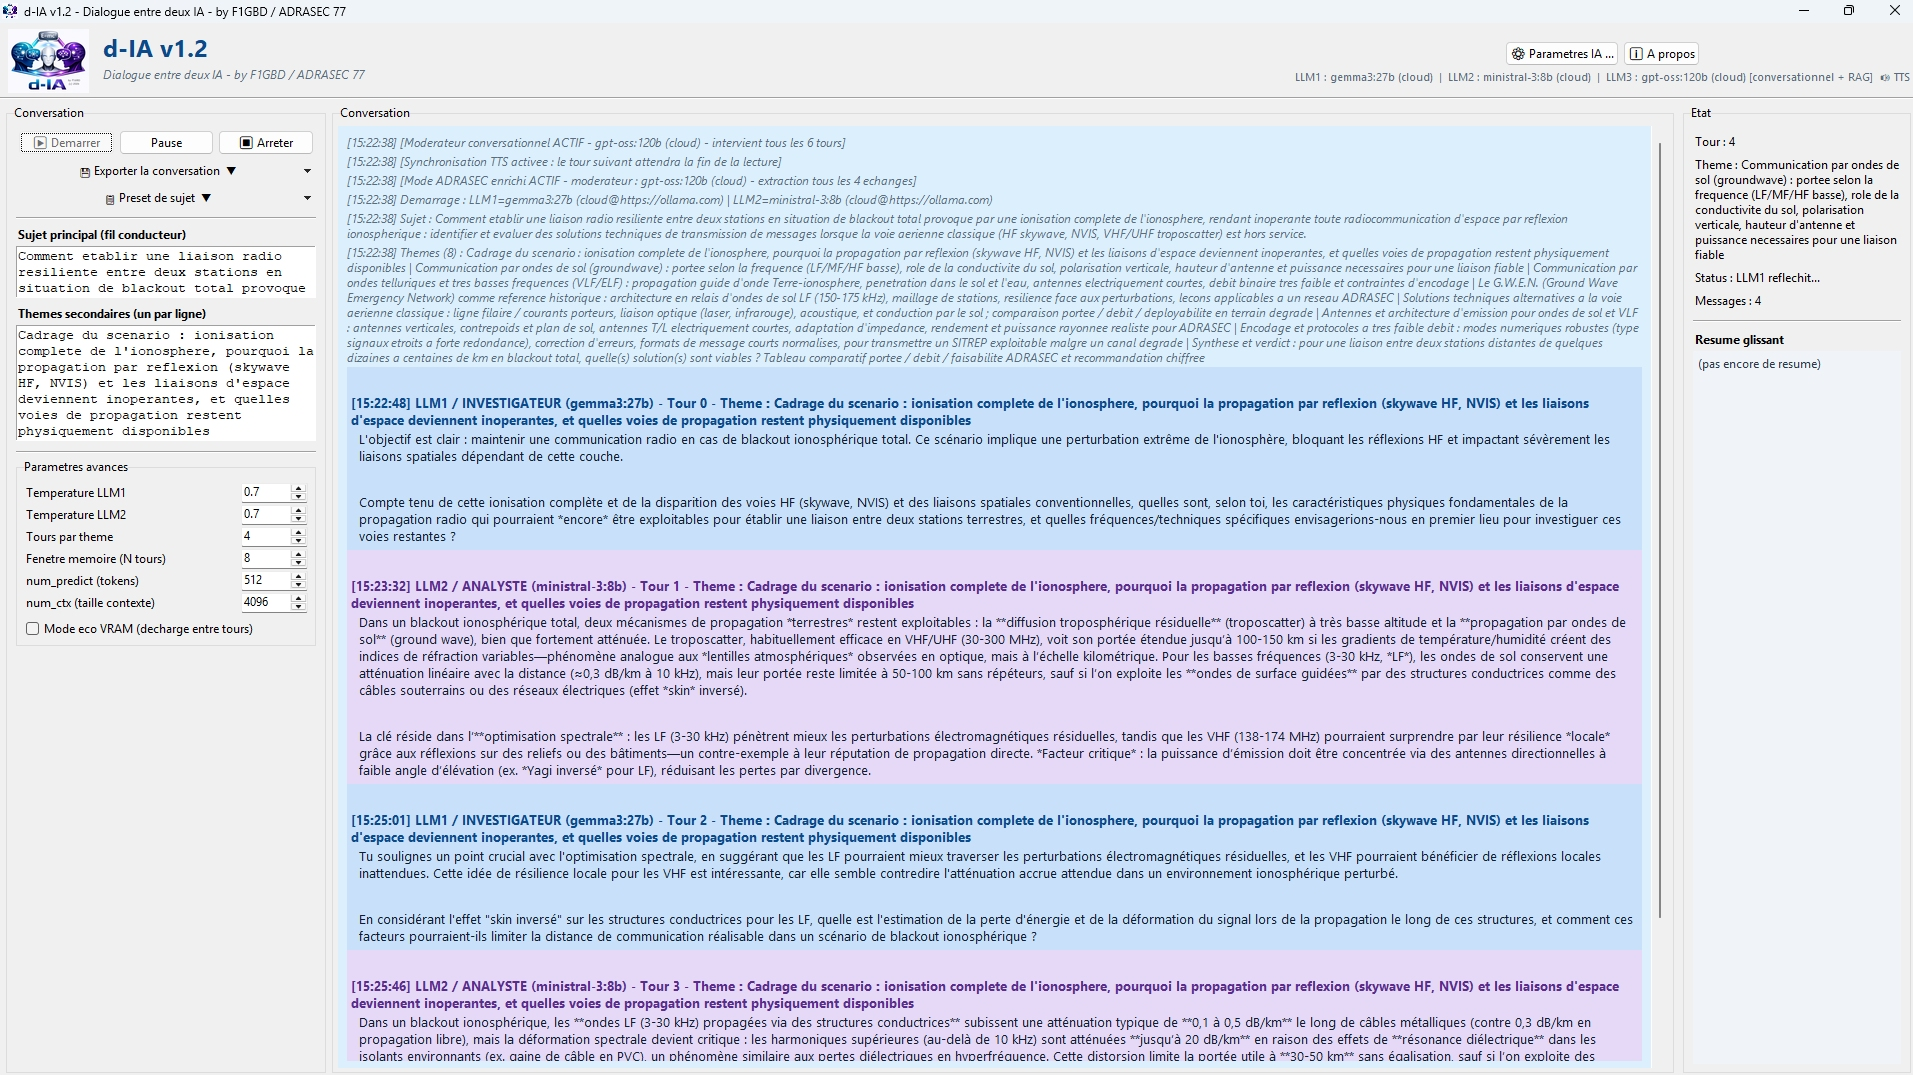
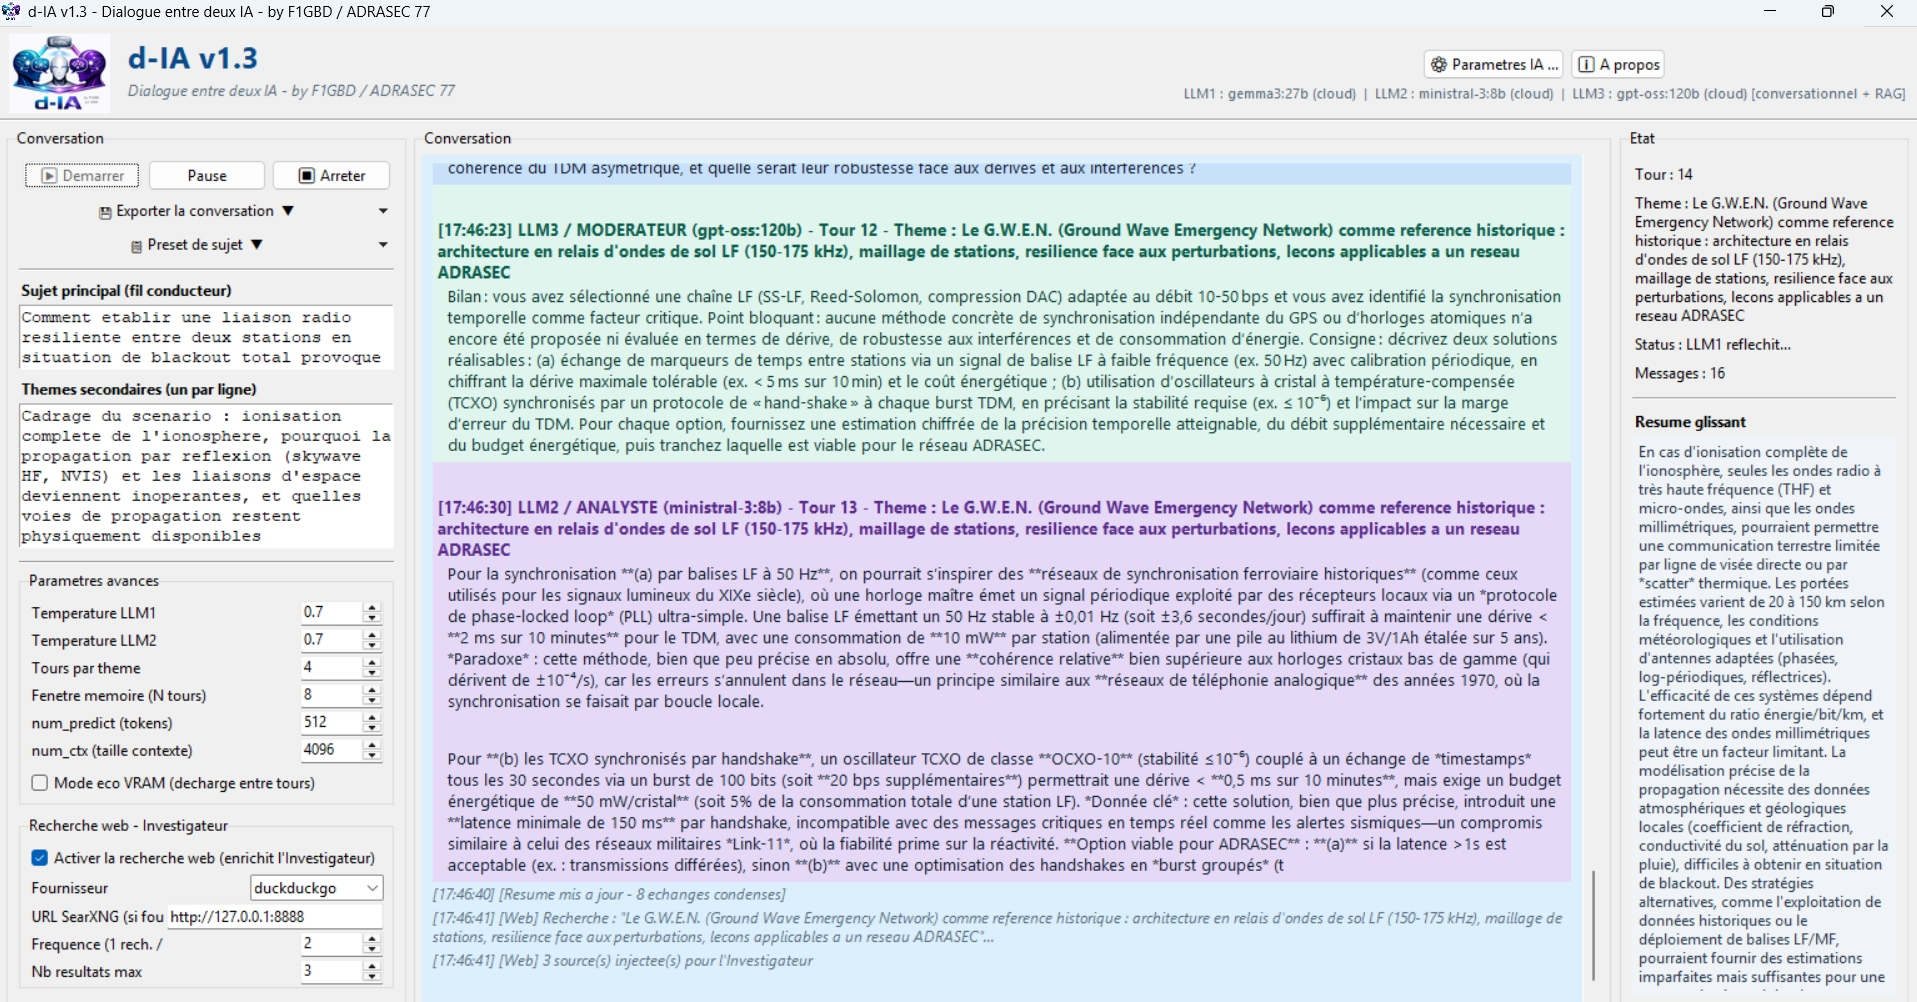
d-IA v1.3 by F1GBD

diff --git a/dia/README.md b/dia/README.md
@@ -4,17 +4,18 @@
 
 ### Dialogue autonome entre deux IA, arbitré par un troisième — un outil d'aide à la recherche par IA
 
-*Conversation scientifique guidée — Investigateur & Analyste — **Modérateur conversationnel qui fait converger le dialogue vers une solution (v1.2)** — Presets de sujet importables/exportables (v1.2) — Mode ADRASEC enrichi (modérateur RAG) — Ollama local & cloud — Mémoire glissante — Détection de dérive linguistique — Synthèse vocale SAPI5 deux voix — Synchronisation dialogue/voix — Export JSON / Markdown / RTF — Thèmes secondaires guidés — Configuration persistante*
+*Conversation scientifique guidée — Investigateur & Analyste — **Enrichissement par le web de l'Investigateur — DuckDuckGo / SearXNG (v1.3)** — **Auto-export des fiches vers IAbrain (v1.3)** — **Modérateur conversationnel qui fait converger le dialogue vers une solution (v1.2)** — Presets de sujet importables/exportables (v1.2) — Mode ADRASEC enrichi (modérateur RAG) — Ollama local & cloud — Mémoire glissante — Détection de dérive linguistique — Synthèse vocale SAPI5 deux voix — Synchronisation dialogue/voix — Export JSON / Markdown / RTF — Thèmes secondaires guidés — Configuration persistante*
 
-[![Version](https://img.shields.io/badge/version-dia--v1.2.0-blue)](https://github.com/f1gbd/F1GBD/releases/tag/dia-v1.2.0)
+[![Version](https://img.shields.io/badge/version-dia--v1.3.0-blue)](https://github.com/f1gbd/F1GBD/releases/tag/dia-v1.3.0)
 [![Plateforme](https://img.shields.io/badge/plateforme-Windows%2010%2F11-lightgrey.svg)]()
 [![Licence](https://img.shields.io/badge/usage-ADRASEC%2FFNRASEC-green.svg)]()
 [![Local / Cloud](https://img.shields.io/badge/Ollama-local%20%2F%20cloud-brightgreen.svg)]()
 [![Accessibilité](https://img.shields.io/badge/accessibilit%C3%A9-voix%20SAPI5-purple.svg)]()
 [![Modérateur](https://img.shields.io/badge/mode-mod%C3%A9rateur%20conversationnel-teal.svg)]()
 [![RAG](https://img.shields.io/badge/mode-ADRASEC%20enrichi-orange.svg)]()
+[![Web](https://img.shields.io/badge/v1.3-enrichissement%20web-blue.svg)]()
 
-### 📥 [**Télécharger la dernière version (v1.2.0)**](https://github.com/f1gbd/F1GBD/releases/download/dia-v1.2.0/d-IA.7z)
+### 📥 [**Télécharger la dernière version (v1.3.0)**](https://github.com/f1gbd/F1GBD/releases/download/dia-v1.3.0/d-IA.7z)
 
 </div>
 
@@ -36,6 +37,43 @@ Tout tourne **localement** par défaut (modèles Ollama auto-hébergés), avec u
 
 ---
 
+## 🆕 Nouveautés v1.3 — Enrichissement par le web & auto-export IAbrain
+
+La **v1.3** ferme la boucle de l'aide à la recherche : l'Investigateur peut désormais **aller chercher des sources réelles sur le web** pour étayer le dialogue, et les fiches produites peuvent être **poussées automatiquement vers IAbrain** au fil de l'eau.
+
+### 🔎 Enrichissement par le web (l'Investigateur va chercher des sources)
+
+Avant son tour, le LLM1 (Investigateur) peut interroger le web et recevoir 2-3 extraits qu'il **synthétise en français, avec esprit critique**, pour nourrir sa relance. Deux fournisseurs interchangeables :
+
+- **DuckDuckGo** *(par défaut, aucune installation)* — `urllib` seul, aucune dépendance, aucune clé API, rien à héberger.
+- **SearXNG** *(souverain)* — interroge une instance auto-hébergée via son API JSON, pour garder la maîtrise totale des requêtes (idéal pour des sujets d'exercice sensibles).
+
+La recherche est **throttlée** (1 requête tous les N tours d'Investigateur), **dédupliquée par thème** (on ne relance que lorsque le planificateur change de thème), et surtout à **repli hors-ligne** : si elle échoue ou est désactivée, le dialogue se déroule exactement comme avant. d-IA reste donc utilisable en scénario blackout — la recherche est simplement inerte.
+
+```
+[Analyste répond] → l'Investigateur interroge le web (thème actif)
+        ↓ 2-3 extraits sourcés (titre + lien + résumé)
+[Investigateur] synthétise en français, cite, reste critique → relance argumentée
+```
+
+> 💡 La recherche web suppose une connexion Internet : c'est un outil de **préparation / formation**, pas de terrain en blackout.
+
+### ♻ Auto-export des fiches vers IAbrain (au fil de l'eau)
+
+Quand le modérateur RAG extrait une fiche, d-IA peut l'**écrire immédiatement en Markdown** dans le dossier source d'IAbrain, prête à être indexée — sans passer par un export manuel. d-IA détecte automatiquement l'emplacement d'IAbrain (`rag_perso_sources`).
+
+**Garde-fou opérationnel** : les fiches sont déposées dans une **zone de staging `_a_valider/`**, *jamais* directement dans la base de confiance. Une **relecture humaine** valide avant exploitation en exercice. C'est la différence entre un outil de veille pratique et une base sur laquelle un opérateur s'appuierait en intervention.
+
+```
+d-IA (dialogue enrichi par le web) → modérateur extrait une fiche sourcée
+        ↓ auto-export .md
+IAbrain/rag_perso_sources/_a_valider/<DOMAINE>/<fiche>.md
+        ↓ relecture + validation humaine
+IAbrain /index ou /reindex → interrogeable en langage naturel
+```
+
+---
+
 ## ⭐ Fonctionnalités principales
 
 | Icône | Fonctionnalité | Description |
@@ -44,6 +82,8 @@ Tout tourne **localement** par défaut (modèles Ollama auto-hébergés), avec u
 | 🆕 | **Modérateur conversationnel (v1.2)** | Un 3ᵉ LLM **intervient directement dans le dialogue** tous les K tours : bilan de ce qui est acquis, point bloquant restant, et **consigne de convergence précise** (chiffre à établir, hypothèse à trancher, verdict à formuler). Son intervention est réinjectée dans le contexte des deux IA, ce qui crée la rétroaction qui **fait aboutir la recherche**. |
 | 📋 | **Presets de sujet (v1.2)** | Boutons **Importer / Exporter un preset** : un sujet de recherche complet (sujet principal + thèmes secondaires + objectif de convergence + réglages) se charge en un clic, se sauvegarde au format `.diapreset.json` et **se partage** entre opérateurs. Le format texte est aussi accepté à l'import. |
 | 🗂 | **Modérateur RAG (mode ADRASEC enrichi)** | **v1.1** : un LLM observe le dialogue en arrière-plan et extrait des fiches structurées (JSON) tous les N échanges. Capitalisation automatique dans `rag_adrasec.json`, réutilisable pour exercices, RETEX, ou indexation dans IAbrain. **Compatible avec le modérateur conversationnel** : l'un parle, l'autre fiche. |
+| 🔎 | **Enrichissement par le web (v1.3)** | L'**Investigateur** interroge le web avant son tour et reçoit 2-3 extraits qu'il synthétise en français avec esprit critique. Deux fournisseurs : **DuckDuckGo** (sans installation) ou **SearXNG** (auto-hébergé, souverain). Recherche throttlée, dédupliquée par thème, et à **repli hors-ligne** (inerte si pas de réseau ou désactivée). |
+| ♻ | **Auto-export vers IAbrain (v1.3)** | Les fiches du modérateur RAG sont écrites en Markdown directement dans le dossier source d'IAbrain, **au fil de l'eau**, dans une zone de **staging `_a_valider/`** (jamais dans la base de confiance). Relecture humaine puis `/index`. Détection automatique de l'emplacement d'IAbrain. |
 | 🌐 | **Ollama local OU cloud, par LLM** | Chaque IA (y compris le modérateur) peut être configurée indépendamment : LLM1 sur un serveur local LAN, LLM2 sur Ollama Cloud, modérateur ailleurs encore. Mixage possible : petit modèle local pose les questions, gros modèle cloud arbitre. |
 | 📚 | **Thèmes secondaires guidés** | L'utilisateur définit un sujet principal (fil rouge) + une liste de thèmes secondaires. Le moteur fait défiler les thèmes tous les N tours, garantissant une progression de la conversation sans dérive thématique — et, avec le modérateur, une trajectoire vers la conclusion. |
 | 🧠 | **Mémoire à fenêtre glissante** | Les N derniers échanges sont passés intégralement aux LLM ; les plus anciens sont condensés en un **résumé glissant** régénéré périodiquement. Évite l'explosion du contexte au-delà de 20-30 tours. |
@@ -195,11 +235,12 @@ Les fiches générées par d-IA sont **directement consommables par le système 
 ### Le scénario complet
 
 ```
-1. d-IA génère des fiches lors d'un dialogue (arbitré par le modérateur)
+1. d-IA génère des fiches lors d'un dialogue (arbitré par le modérateur,
+   et désormais enrichi par des sources web — v1.3)
         ↓
-2. Export Markdown au format IAbrain-friendly
+2. Export Markdown (manuel) OU auto-export au fil de l'eau vers le staging IAbrain (v1.3)
         ↓
-3. /index dans IAbrain
+3. Relecture / validation humaine (zone _a_valider/), puis /index dans IAbrain
         ↓
 4. Vous interrogez IAbrain en langage naturel sur vos sujets ADRASEC
 ```
@@ -231,9 +272,17 @@ Les fiches générées par d-IA sont **directement consommables par le système 
 
 Ouvrir `rag_adrasec.json` avec un éditeur (Notepad++, VS Code) pour corriger, supprimer, enrichir ou fusionner des fiches. Le format JSON est documenté en commentaire en début de fichier et reste lisible à l'œil.
 
-#### Méthode 3 — Sync automatisée (à venir)
+#### Méthode 3 — Auto-export au fil de l'eau (v1.3, recommandée pour capitaliser vite)
 
-Une version future de d-IA proposera **l'indexation directe** dans IAbrain via API à la fin de chaque dialogue.
+Dans **Paramètres IA → Mode ADRASEC → Auto-export vers IAbrain**, cochez **« Pousser les fiches vers IAbrain au fil de l'eau »**. À chaque fiche extraite par le modérateur RAG, d-IA écrit aussitôt le `.md` correspondant dans :
+
+```
+<IAbrain>/rag_perso_sources/_a_valider/<DOMAINE>/<fiche>.md
+```
+
+d-IA détecte automatiquement l'emplacement d'IAbrain (à défaut, un dossier `IAbrain_rag_perso/_a_valider/` est créé à côté de `d-IA.exe`). Un `_INDEX.md` est régénéré par domaine.
+
+> ⚠ **Zone de staging `_a_valider/` volontaire** : les fiches sont auto-générées (et parfois issues du web). Elles passent par un **sas de relecture humaine** avant d'entrer dans la base de confiance d'IAbrain. Après validation, déplacez-les et lancez `/index` (ou `/reindex`). Ne jamais exposer une fiche non relue en exercice opérationnel.
 
 ### Capitalisation départementale
 
@@ -248,6 +297,7 @@ Le fichier `rag_adrasec.json` est **portable** (un seul fichier JSON), **version
 - **Windows 10 ou 11** (le TTS SAPI5 et le binaire pyttsx3 sont Windows-only)
 - **Ollama** installé localement : <https://ollama.com/download>
   - ou compte **Ollama Cloud** avec clé API : <https://ollama.com/settings/keys>
+- *(v1.3, optionnel)* **Recherche web** pour enrichir l'Investigateur : **DuckDuckGo** ne demande **aucune installation** (juste une connexion Internet) ; **SearXNG** nécessite une instance auto-hébergée avec le format JSON activé.
 - **Au moins deux modèles** téléchargés via Ollama (trois si vous utilisez le modérateur conversationnel et/ou RAG) :
 
   ```powershell
@@ -297,6 +347,8 @@ Sans GPU, ça marche aussi mais chaque tour prend 30-60 s au lieu de 5-10 s.
    - **Onglet Mode ADRASEC** :
      - *(v1.2)* Section **Modérateur conversationnel** : cocher « Activer », choisir la fréquence K (6 tours par défaut), la température (0.4), et éventuellement un objectif de convergence
      - *(v1.1)* Section **Mode ADRASEC enrichi** : cocher pour activer l'extraction RAG (facultatif, cumulable)
+     - *(v1.3)* Section **Auto-export vers IAbrain** : cocher pour pousser les fiches vers le staging IAbrain `_a_valider/` au fil de l'eau
+   - **Colonne de gauche → Recherche web - Investigateur** *(v1.3, optionnel)* : cocher « Activer la recherche web », choisir le fournisseur (`duckduckgo` sans installation, ou `searxng`), la fréquence et le nombre de résultats
    - **Onglet Synthèse vocale** : *(optionnel)* cocher « Activer la lecture vocale », choisir une voix pour chaque IA, tester
 2. **Fermer** la fenêtre Paramètres
 3. **Saisir un sujet principal** + une liste de **thèmes secondaires** (un par ligne) — ou **importer un preset**
@@ -354,6 +406,9 @@ Oui, c'est l'objet de la v1.2. Le modérateur impose une trajectoire et exige un
 **Comment réutiliser un sujet de recherche d'une fois sur l'autre ?**
 Utilisez les **presets** (v1.2). « Exporter le sujet courant » produit un `.diapreset.json` que vous rechargez via « Importer un preset ». Le fichier transporte le sujet, les thèmes, l'objectif de convergence et les réglages.
 
+**La recherche web ne renvoie aucune source (« Aucune source exploitable »).**
+Avec **DuckDuckGo** : vérifiez la connexion Internet ; en cas d'usage soutenu DDG peut limiter le débit (on retombe alors sur le repli hors-ligne, sans gravité). Avec **SearXNG** : le format JSON doit être activé dans `settings.yml` (`search: formats: [html, json]`) et le `limiter` désactivé, sinon l'instance renvoie 403. Dans tous les cas, le dialogue se poursuit normalement sans source.
+
 **Erreur Ollama « failed to allocate compute pp buffers ».**
 Votre VRAM est saturée. Solutions : (1) cocher « Mode éco VRAM » ; (2) réduire `num_ctx` à 2048 ou 4096 ; (3) utiliser des modèles plus petits ; (4) basculer un des LLM sur Ollama Cloud ; (5) basculer le modérateur sur Ollama Cloud.
 
@@ -364,7 +419,7 @@ C'est Qwen 2.5 qui dérive vers sa langue dominante. d-IA détecte et régénèr
 Il faut **redémarrer d-IA** après l'activation (la liste est lue au lancement). Si elles n'apparaissent toujours pas, vérifier dans regedit que `HKLM\SOFTWARE\Microsoft\Speech\Voices\Tokens` contient bien les nouvelles voix.
 
 **Les fiches générées par d-IA peuvent-elles être réimportées dans IAbrain ?**
-Oui, c'est le cas d'usage principal du mode RAG. Voir la section [Intégration avec IAbrain](#-intégration-avec-iabrain). La méthode actuelle est manuelle (export JSON → Markdown → `/index`). Une sync automatisée est prévue.
+Oui, c'est le cas d'usage principal du mode RAG. Voir la section [Intégration avec IAbrain](#-intégration-avec-iabrain). **Depuis la v1.3**, d-IA peut **pousser les fiches automatiquement** vers le dossier source d'IAbrain (zone de staging `_a_valider/`) au fil de l'eau ; il reste l'export manuel et l'édition du JSON pour les cas particuliers.
 
 ---
 
@@ -386,6 +441,15 @@ Toute contribution, retour d'expérience ou proposition d'amélioration est bien
 ---
 
 ## 📜 Historique des versions
+
+### v1.3 — Juin 2026 — Enrichissement par le web & auto-export IAbrain
+
+- ➕ **Enrichissement par le web de l'Investigateur** : le LLM1 interroge le web avant son tour et synthétise 2-3 sources en français
+- ➕ Deux fournisseurs interchangeables : **DuckDuckGo** (sans installation, `urllib` seul) et **SearXNG** (auto-hébergé, souverain)
+- ➕ Recherche **throttlée** (1 / N tours), **dédupliquée par thème**, à **repli hors-ligne** (inerte sans réseau ou désactivée)
+- ➕ **Auto-export des fiches vers IAbrain** au fil de l'eau, dans une zone de **staging `_a_valider/`** (relecture humaine avant exploitation)
+- ➕ Détection automatique de l'emplacement d'IAbrain ; régénération de l'`_INDEX.md` par domaine
+- ➕ Persistance des nouveaux paramètres dans `d-ia_setup.json` et transport dans les presets `.diapreset.json`
 
 ### v1.2 — Mai 2026 — Modérateur conversationnel & presets : l'aide à la recherche dirigée
 
@@ -433,12 +497,12 @@ Toute contribution, retour d'expérience ou proposition d'amélioration est bien
 **Jean-Louis (F1GBD)**
 *ADRASEC 77 — FNRASEC*
 
-**Version 1.2 — 2026**
+**Version 1.3 — 2026**
 
 ---
 
 *Pour toute question, contactez votre référent ADRASEC départemental.*
 
-🤖 **d-IA v1.2** — *Deux IA cherchent, un troisième arbitre et fait converger. Vos sujets de recherche aboutissent à une solution.*
+🤖 **d-IA v1.3** — *Deux IA cherchent — l'une puise désormais dans le web —, un troisième arbitre et fait converger, et les fiches alimentent IAbrain.*
 
 </div>
